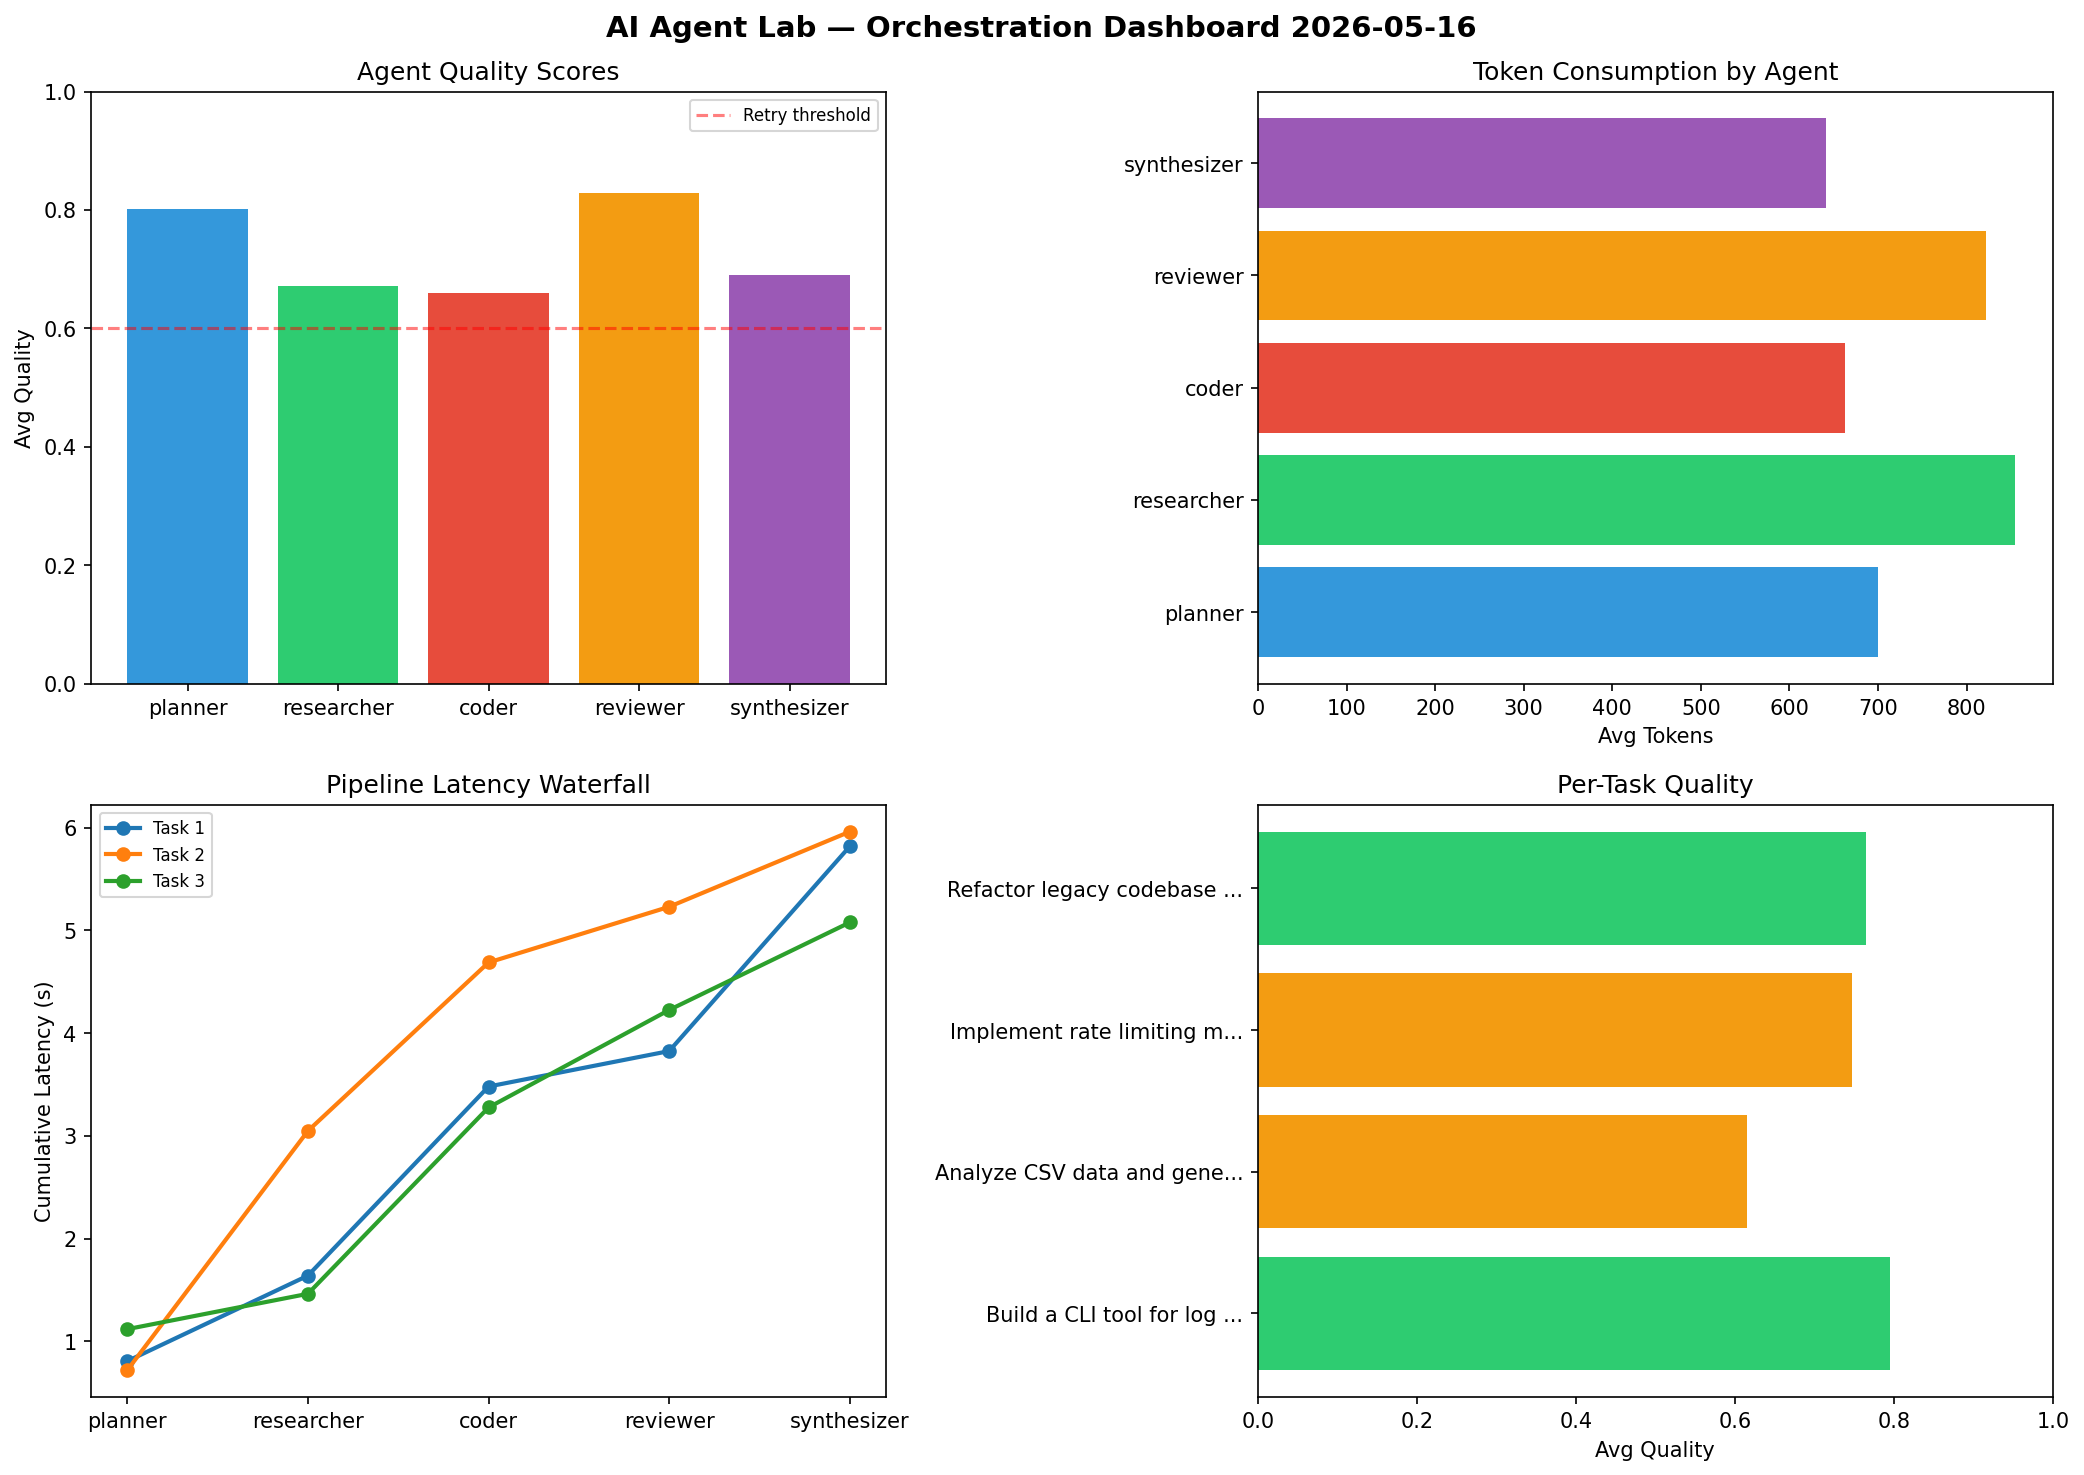
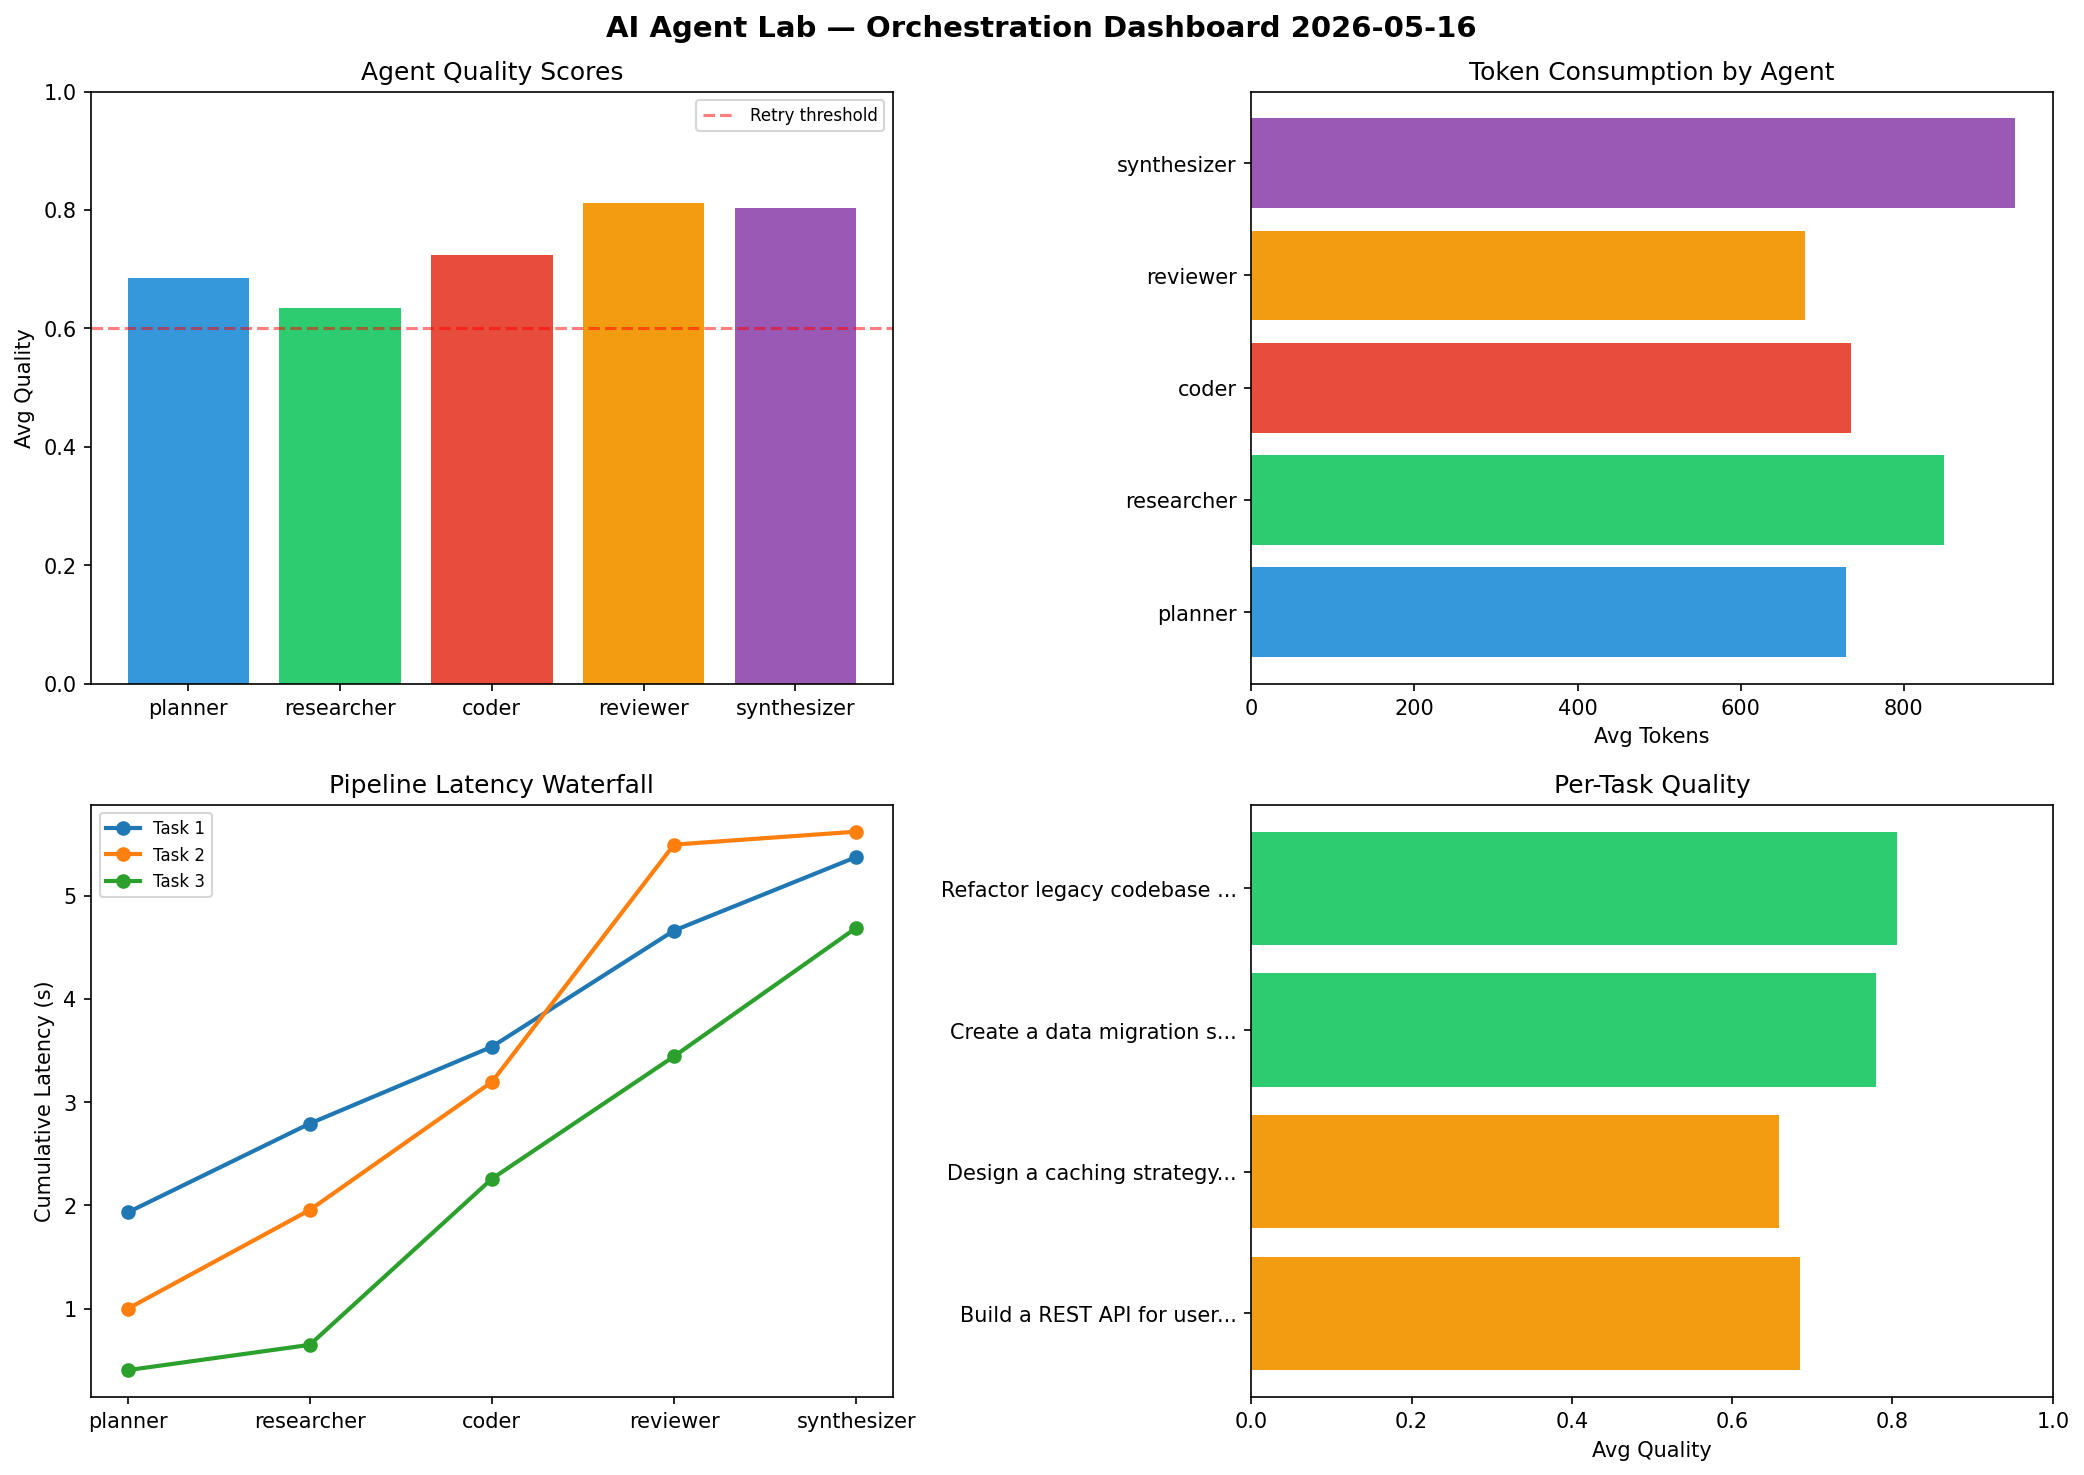
ai-agent-lab: orchestration run 2026-05-16T09:51

diff --git a/logs/2026-05-16.md b/logs/2026-05-16.md
@@ -1,6 +1,6 @@
 # AI Agent Lab — Orchestration Report 2026-05-16
 
-**Run ID:** `d1cc11ec97` | **Tasks:** 4 | **Avg Quality:** 0.731
+**Run ID:** `625a73c070` | **Tasks:** 4 | **Avg Quality:** 0.732
 
 ![Dashboard](2026-05-16_dashboard.png)
 
@@ -8,52 +8,52 @@
 
 | Metric | Value |
 |--------|-------|
-| avg_latency | 5.932 |
-| total_tokens | 14721 |
-| avg_quality | 0.731 |
+| avg_latency | 4.797 |
+| total_tokens | 15712 |
+| avg_quality | 0.732 |
 
 ## Delta vs Yesterday
 
 | Metric | Today | Yesterday | Change |
 |--------|-------|-----------|--------|
-| avg_latency | 5.932 | 7.803 | 📉 -24.0% |
-| total_tokens | 14721 | 13548 | 📈 8.7% |
-| avg_quality | 0.731 | 0.739 | 📉 -1.1% |
+| avg_latency | 4.797 | 7.803 | 📉 -38.5% |
+| total_tokens | 15712 | 13548 | 📈 16.0% |
+| avg_quality | 0.732 | 0.739 | 📉 -0.9% |
 
 ## Pipeline Results
 
-### Build a CLI tool for log analysis
+### Build a REST API for user authentication
 | Agent | Quality | Latency | Tokens | Status |
 |-------|---------|---------|--------|--------|
-| planner | 0.961 | 0.809s | 506 | success |
-| researcher | 0.919 | 0.832s | 873 | success |
-| coder | 0.502 | 1.84s | 378 | needs_retry |
-| reviewer | 0.873 | 0.345s | 1145 | success |
-| synthesizer | 0.718 | 1.992s | 449 | success |
+| planner | 0.568 | 1.932s | 1031 | needs_retry |
+| researcher | 0.681 | 0.861s | 959 | success |
+| coder | 0.55 | 0.744s | 431 | needs_retry |
+| reviewer | 0.652 | 1.125s | 840 | success |
+| synthesizer | 0.968 | 0.712s | 1088 | success |
 
-### Analyze CSV data and generate statistical summary
+### Design a caching strategy for high-traffic endpoints
 | Agent | Quality | Latency | Tokens | Status |
 |-------|---------|---------|--------|--------|
-| planner | 0.625 | 0.721s | 308 | success |
-| researcher | 0.574 | 2.328s | 817 | needs_retry |
-| coder | 0.506 | 1.639s | 810 | needs_retry |
-| reviewer | 0.868 | 0.542s | 405 | success |
-| synthesizer | 0.501 | 0.731s | 729 | needs_retry |
+| planner | 0.603 | 0.999s | 237 | success |
+| researcher | 0.506 | 0.957s | 458 | needs_retry |
+| coder | 0.84 | 1.24s | 766 | success |
+| reviewer | 0.776 | 2.299s | 788 | success |
+| synthesizer | 0.567 | 0.125s | 886 | needs_retry |
 
-### Implement rate limiting middleware
+### Create a data migration script for schema v2
 | Agent | Quality | Latency | Tokens | Status |
 |-------|---------|---------|--------|--------|
-| planner | 0.662 | 1.12s | 1064 | success |
-| researcher | 0.522 | 0.344s | 894 | needs_retry |
-| coder | 0.968 | 1.813s | 1121 | success |
-| reviewer | 0.781 | 0.949s | 738 | success |
-| synthesizer | 0.808 | 0.852s | 718 | success |
+| planner | 0.655 | 0.405s | 1019 | success |
+| researcher | 0.786 | 0.245s | 992 | success |
+| coder | 0.751 | 1.608s | 932 | success |
+| reviewer | 0.876 | 1.186s | 722 | success |
+| synthesizer | 0.827 | 1.244s | 676 | success |
 
 ### Refactor legacy codebase to use dependency injection
 | Agent | Quality | Latency | Tokens | Status |
 |-------|---------|---------|--------|--------|
-| planner | 0.957 | 1.8s | 924 | success |
-| researcher | 0.672 | 1.325s | 834 | success |
-| coder | 0.663 | 0.533s | 341 | success |
-| reviewer | 0.795 | 0.738s | 998 | success |
-| synthesizer | 0.736 | 2.476s | 669 | success |
+| planner | 0.913 | 0.352s | 627 | success |
+| researcher | 0.568 | 0.52s | 990 | needs_retry |
+| coder | 0.752 | 0.808s | 814 | success |
+| reviewer | 0.945 | 0.716s | 363 | success |
+| synthesizer | 0.853 | 1.111s | 1093 | success |
